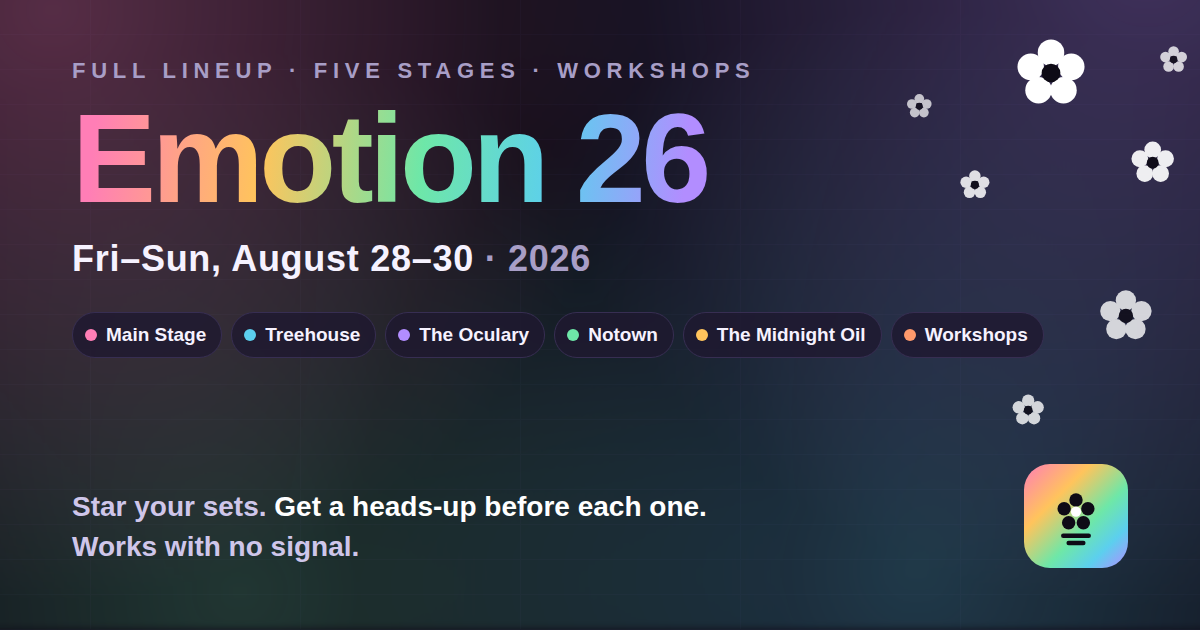
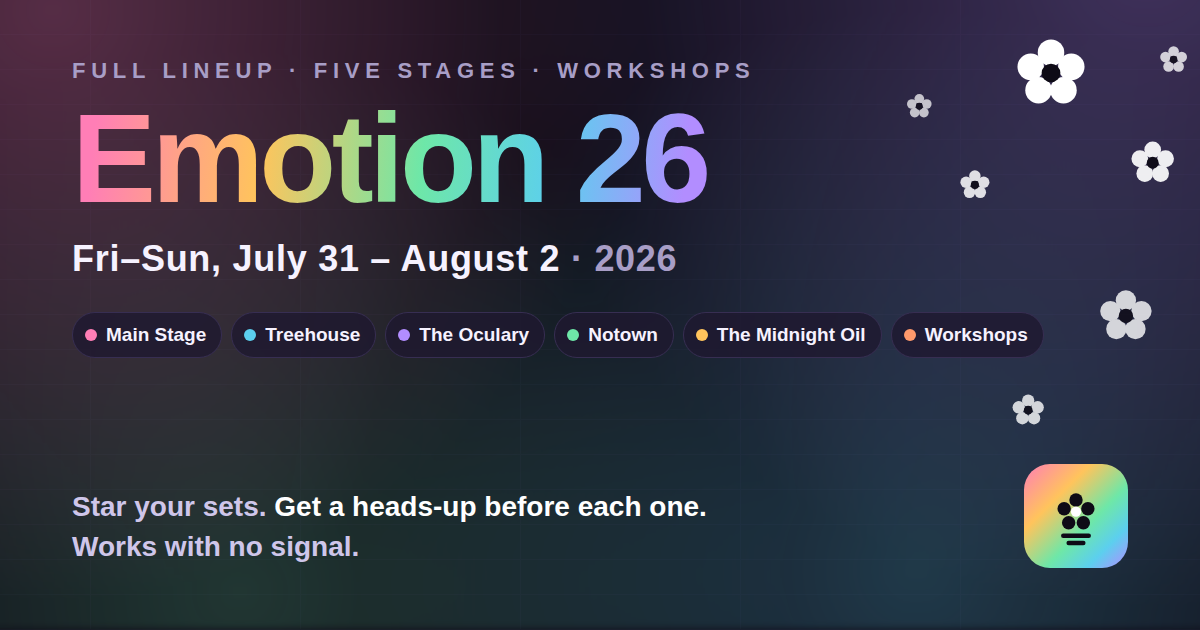
Correct the festival dates to July 31 - August 2
The dates were a guess made before they were confirmed, and the guess was
four weeks late. Everything looked plausible but nothing behaved: with the
whole line-up sitting in the future, no set was ever "on now", nothing
counted as finished, and the hide-finished filter had nothing to act on —
which read as the filter being broken.

Dates are now Fri 31 July, Sat 1 August, Sun 2 August 2026. The share card
and link-preview text are regenerated to match.

Two changes so a date mismatch explains itself next time rather than looking
like a bug:

- Before the first set, the schedule carries a line saying when the festival
  starts and how far off it is, and that nothing has finished yet. After the
  last set it says the festival is over. Either way the filter doing nothing
  now has a visible reason.
- The up-next heading names the day when the next thing is not today, so
  "up next 11am" can't read as a time that has already passed.

Adds a ?now=2026-08-01T22:00 parameter that shifts the app's clock, so
live behaviour can be checked without waiting for the day. Ignored unless
the value parses.

Claude-Session: https://claude.ai/code/session_016qJPaxEs9rzvzDYj7mwAVE

Changed region(s): [[0.185, 0.3921, 0.5858, 0.4524]]

diff --git a/js/app.js b/js/app.js
@@ -224,8 +224,26 @@
      Live status
      ------------------------------------------------------------------- */
 
+  /* ?now=2026-08-29T22:00 pretends it's some other moment, so the live
+     behaviour — what's on, what's finished, what gets hidden — can be checked
+     without waiting for the festival. Ignored unless the value parses. */
+  var CLOCK_OFFSET = 0;
+  (function () {
+    var m = /[?&]now=([^&]+)/.exec(location.search);
+    if (!m) return;
+    var t = new Date(decodeURIComponent(m[1]));
+    if (!isNaN(t.getTime())) CLOCK_OFFSET = t.getTime() - Date.now();
+  })();
+
   var now = new Date();
-  function refreshNow() { now = new Date(); }
+  function refreshNow() { now = new Date(Date.now() + CLOCK_OFFSET); }
+
+  // When the festival runs, so the app can say "not started yet" rather than
+  // looking broken to someone checking it in advance.
+  var FIRST_SET = SETS.length ? SETS[0].start : null;
+  var LAST_END = SETS.reduce(function (m2, s) {
+    return !m2 || s.end > m2 ? s.end : m2;
+  }, null);
 
   function isLive(s) { return s.start <= now && now < s.end; }
   function isPast(s) { return s.end <= now; }
@@ -336,7 +354,9 @@
     past.addEventListener('click', function () {
       state.hidePast = !state.hidePast;
       save(); render();
-      toast(state.hidePast ? 'Finished sets hidden' : 'Showing the whole day');
+      toast(!state.hidePast ? 'Showing the whole day'
+            : hiddenCount ? hiddenCount + ' finished set' + (hiddenCount === 1 ? '' : 's') + ' hidden'
+            : 'Nothing has finished yet');
       window.scrollTo({ top: 0, behavior: 'smooth' });
     });
     wrap.appendChild(past);
@@ -563,7 +583,12 @@
       if (!upcoming.length) { bar.hidden = true; return; }
       var firstStart = upcoming[0].start.getTime();
       live = upcoming.filter(function (s) { return s.start.getTime() === firstStart; });
-      title = 'Up next · ' + fmtTime(live[0].start);
+      // Name the day too when the next thing isn't today, or "up next · 11am"
+      // reads as a time that has already gone by.
+      var soon = live[0].start;
+      var sameDay = soon.toDateString() === now.toDateString();
+      title = (sameDay ? 'Up next · ' : 'First up · ' + soon.toLocaleDateString(undefined,
+        { weekday: 'short' }) + ' ') + fmtTime(soon);
     }
 
     $('#nowTitle').textContent = title;
@@ -612,6 +637,29 @@
     else if (state.view === 'stages') renderStagesView();
     else if (state.view === 'timeline') renderTimelineView();
     else if (state.view === 'mine') renderMineView();
+
+    /* Before the gates open, every time on screen is in the future — so "hide
+       finished" does nothing and the day looks stubbornly full. Say so, rather
+       than leave someone tapping a filter that appears broken. */
+    if (showsDay && FIRST_SET && now < FIRST_SET) {
+      var days = Math.ceil((FIRST_SET - now) / 86400000);
+      var when = FIRST_SET.toLocaleDateString(undefined,
+        { weekday: 'long', month: 'long', day: 'numeric' });
+      var away = days <= 0 ? 'later today'
+               : days === 1 ? 'tomorrow'
+               : 'in ' + days + ' days';
+      var note = el('div', 'status-bar');
+      note.appendChild(el('strong', null, FESTIVAL.name + ' starts ' + when + ', ' + away + '.'));
+      note.appendChild(el('span', null,
+        'Nothing has finished yet, so the whole line-up is showing. ' +
+        'Once it starts, ⏳ drops everything that has already ended.'));
+      viewEl.insertBefore(note, viewEl.firstChild);
+    } else if (showsDay && LAST_END && now > LAST_END) {
+      var over = el('div', 'status-bar');
+      over.appendChild(el('strong', null, "That's a wrap."));
+      over.appendChild(el('span', null, 'Showing the full line-up.'));
+      viewEl.insertBefore(over, viewEl.firstChild);
+    }
 
     // Never let sets vanish without saying so, or without a way back.
     if (showsDay && hiddenCount) {

diff --git a/index.html b/index.html
@@ -10,12 +10,12 @@
 <meta property="og:type" content="website">
 <meta property="og:site_name" content="Emotion 26">
 <meta property="og:title" content="Emotion 26 — Festival Schedule">
-<meta property="og:description" content="Fri–Sun, August 28–30 2026. Five stages plus workshops, 152 sessions. Star the ones you want and get a heads-up before each starts. Works with no signal.">
+<meta property="og:description" content="Fri–Sun, July 31 – August 2, 2026. Five stages plus workshops, 152 sessions. Star the ones you want and get a heads-up before each starts. Works with no signal.">
 <meta property="og:url" content="https://sociussolutions.github.io/emotion26/">
 <meta property="og:image" content="https://sociussolutions.github.io/emotion26/assets/og.png">
 <meta property="og:image:width" content="1200">
 <meta property="og:image:height" content="630">
-<meta property="og:image:alt" content="Emotion 26 — full lineup, five stages plus workshops, August 28 to 30 2026.">
+<meta property="og:image:alt" content="Emotion 26 — full lineup, five stages plus workshops, July 31 to August 2, 2026.">
 <meta name="twitter:card" content="summary_large_image">
 <meta name="twitter:title" content="Emotion 26 — Festival Schedule">
 <meta name="twitter:description" content="Five stages plus workshops, 152 sessions. Star the ones you want and get a heads-up before each starts.">

diff --git a/js/data.js b/js/data.js
@@ -35,9 +35,9 @@ const FESTIVAL = {
 
   /* ---- CHANGE THE DATES HERE ---------------------------------------- */
   days: [
-    { id: 'fri', label: 'Friday',   short: 'FRI', date: '2026-08-28' },
-    { id: 'sat', label: 'Saturday', short: 'SAT', date: '2026-08-29' },
-    { id: 'sun', label: 'Sunday',   short: 'SUN', date: '2026-08-30' }
+    { id: 'fri', label: 'Friday',   short: 'FRI', date: '2026-07-31' },
+    { id: 'sat', label: 'Saturday', short: 'SAT', date: '2026-08-01' },
+    { id: 'sun', label: 'Sunday',   short: 'SUN', date: '2026-08-02' }
   ],
 
   /* ---- STAGES -------------------------------------------------------- */

diff --git a/css/app.css b/css/app.css
@@ -153,6 +153,16 @@ header.app-head {
 }
 .chip-time[aria-pressed='false'] { opacity: 1; color: var(--text-dim); }
 
+.status-bar {
+  margin: 10px 0 4px; padding: 13px 15px;
+  background: var(--card);
+  border: 1px solid var(--line);
+  border-left: 4px solid #5ccfee;
+  border-radius: 12px;
+  font-size: 13.5px; line-height: 1.45; color: var(--text-dim);
+}
+.status-bar strong { display: block; color: var(--text); font-size: 15px; margin-bottom: 3px; }
+
 .hidden-bar {
   display: flex; align-items: center; gap: 10px; width: 100%;
   margin: 10px 0 4px; padding: 11px 14px;

diff --git a/sw.js b/sw.js
@@ -2,7 +2,7 @@
    Cache-first for the app shell so the schedule works with no signal at all,
    which is the normal state of affairs at a festival. */
 
-var CACHE = 'emotion26-v6';
+var CACHE = 'emotion26-v7';
 
 /* Cache-first is right for code and images, but it meant a schedule change
    didn't reach anyone until their SECOND visit — the first one served the old
